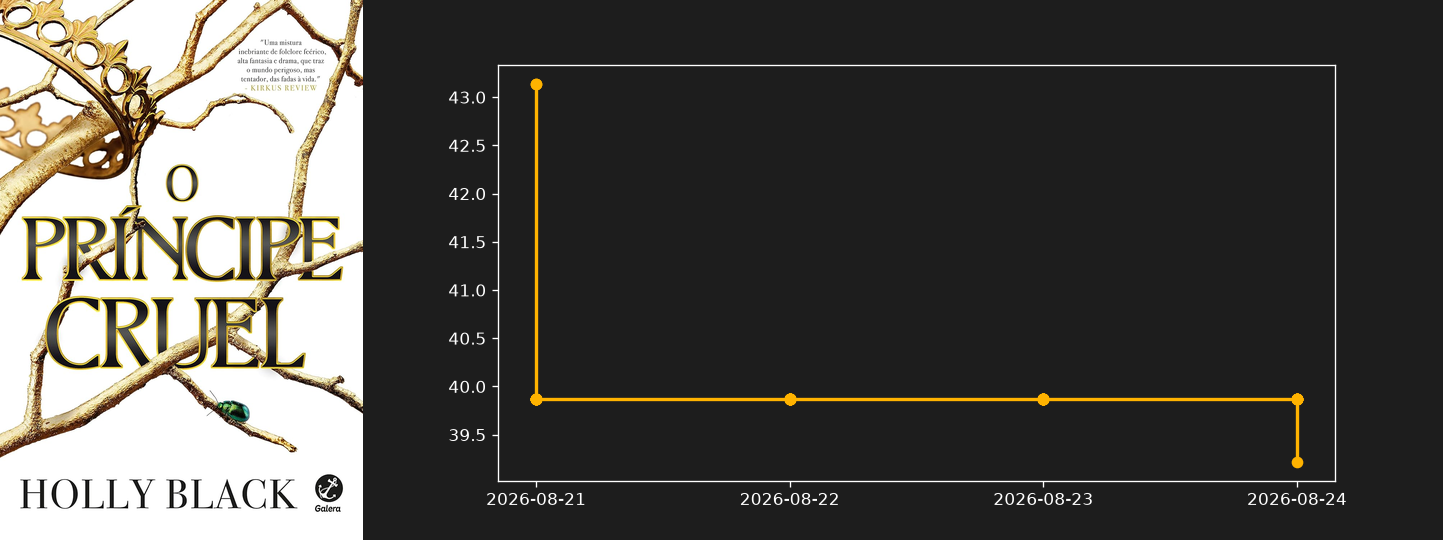
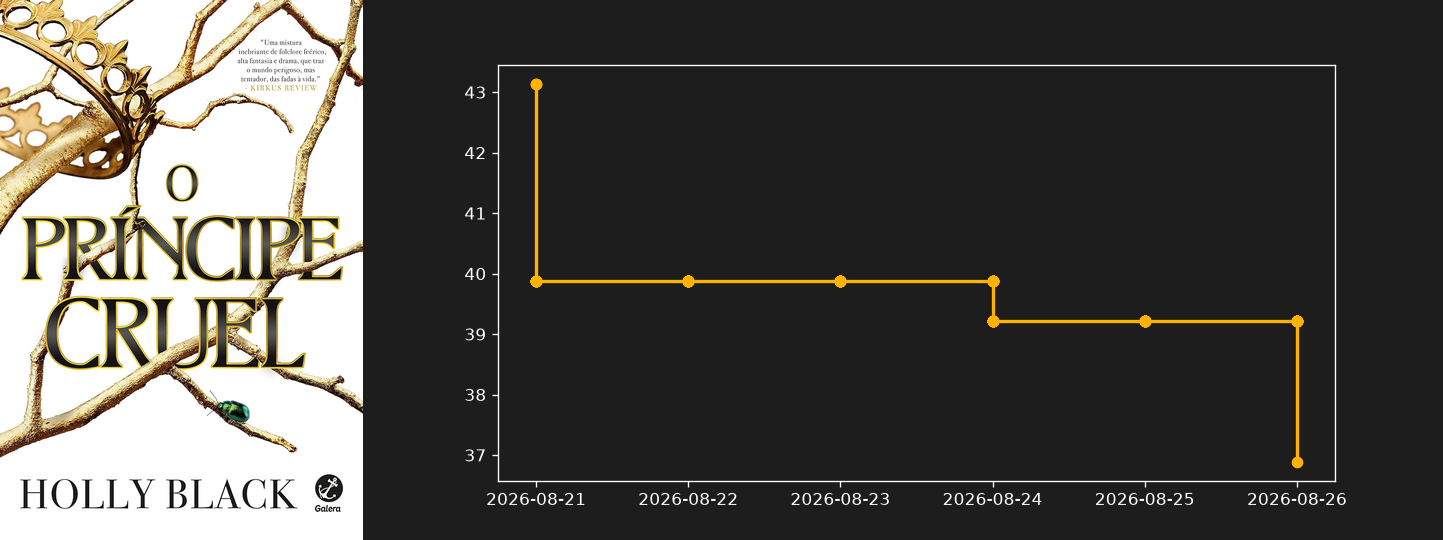
🤖 Bot Mac: Atualizando ofertas [skip ci]

diff --git a/index.html b/index.html
@@ -48,14 +48,14 @@
             <div class="flex flex-col mt-auto mb-5">
                 <div class="flex items-baseline gap-2">
                     <span class="text-2xl font-bold text-white tracking-tight">R$ 184,07</span>
-                    <span class="text-sm text-gray-500 line-through">R$ 253,01</span>
+                    <span class="text-sm text-gray-500 line-through">R$ 252,82</span>
                 </div>
             </div>
             <a href="https://link.amazon/B0bxqDHXJ" target="_blank" rel="nofollow noopener" class="w-full flex items-center justify-center gap-2 py-2.5 rounded-xl bg-white/5 hover:bg-bardo-gold hover:text-bardo-dark text-sm font-bold text-gray-200 transition-all">Comprar na Amazon</a>
         </div>
     </article>
     <article class="relative flex flex-col bg-surface rounded-2xl border border-white/5 overflow-hidden hover:border-bardo-gold/40 transition-all duration-300 group shadow-lg">
-        <div class="absolute top-3 left-3 z-10"><span class="px-2.5 py-1 text-[11px] font-bold uppercase tracking-wider text-emerald-400 bg-emerald-500/10 border border-emerald-500/20 rounded-full backdrop-blur-md shadow-lg">Abaixo da Média</span></div>
+        
         <!-- Vitrine com Efeito Hover Swap -->
         <div class="relative h-64 w-full bg-gradient-to-b from-white/[0.03] to-transparent border-b border-white/5 overflow-hidden">
             <!-- Imagem 1: Capa (Soma ao Hover) -->
@@ -128,7 +128,7 @@
             <div class="flex flex-col mt-auto mb-5">
                 <div class="flex items-baseline gap-2">
                     <span class="text-2xl font-bold text-white tracking-tight">R$ 49,78</span>
-                    <span class="text-sm text-gray-500 line-through">R$ 45,43</span>
+                    <span class="text-sm text-gray-500 line-through">R$ 45,44</span>
                 </div>
             </div>
             <a href="https://link.amazon/B05Sr7Nr7" target="_blank" rel="nofollow noopener" class="w-full flex items-center justify-center gap-2 py-2.5 rounded-xl bg-white/5 hover:bg-bardo-gold hover:text-bardo-dark text-sm font-bold text-gray-200 transition-all">Comprar na Amazon</a>
@@ -148,7 +148,7 @@
             <div class="flex flex-col mt-auto mb-5">
                 <div class="flex items-baseline gap-2">
                     <span class="text-2xl font-bold text-white tracking-tight">R$ 139,93</span>
-                    <span class="text-sm text-gray-500 line-through">R$ 131,55</span>
+                    <span class="text-sm text-gray-500 line-through">R$ 131,58</span>
                 </div>
             </div>
             <a href="https://link.amazon/B04OFbHZF" target="_blank" rel="nofollow noopener" class="w-full flex items-center justify-center gap-2 py-2.5 rounded-xl bg-white/5 hover:bg-bardo-gold hover:text-bardo-dark text-sm font-bold text-gray-200 transition-all">Comprar na Amazon</a>
@@ -168,7 +168,7 @@
             <div class="flex flex-col mt-auto mb-5">
                 <div class="flex items-baseline gap-2">
                     <span class="text-2xl font-bold text-white tracking-tight">R$ 132,93</span>
-                    <span class="text-sm text-gray-500 line-through">R$ 134,04</span>
+                    <span class="text-sm text-gray-500 line-through">R$ 134,03</span>
                 </div>
             </div>
             <a href="https://link.amazon/B0bOFsgQ9" target="_blank" rel="nofollow noopener" class="w-full flex items-center justify-center gap-2 py-2.5 rounded-xl bg-white/5 hover:bg-bardo-gold hover:text-bardo-dark text-sm font-bold text-gray-200 transition-all">Comprar na Amazon</a>
@@ -188,7 +188,7 @@
             <div class="flex flex-col mt-auto mb-5">
                 <div class="flex items-baseline gap-2">
                     <span class="text-2xl font-bold text-white tracking-tight">R$ 227,26</span>
-                    <span class="text-sm text-gray-500 line-through">R$ 219,19</span>
+                    <span class="text-sm text-gray-500 line-through">R$ 219,22</span>
                 </div>
             </div>
             <a href="https://link.amazon/B0cOS4omj" target="_blank" rel="nofollow noopener" class="w-full flex items-center justify-center gap-2 py-2.5 rounded-xl bg-white/5 hover:bg-bardo-gold hover:text-bardo-dark text-sm font-bold text-gray-200 transition-all">Comprar na Amazon</a>
@@ -228,7 +228,7 @@
             <div class="flex flex-col mt-auto mb-5">
                 <div class="flex items-baseline gap-2">
                     <span class="text-2xl font-bold text-white tracking-tight">R$ 78,99</span>
-                    <span class="text-sm text-gray-500 line-through">R$ 76,59</span>
+                    <span class="text-sm text-gray-500 line-through">R$ 76,60</span>
                 </div>
             </div>
             <a href="https://link.amazon/B01CIGwaZ" target="_blank" rel="nofollow noopener" class="w-full flex items-center justify-center gap-2 py-2.5 rounded-xl bg-white/5 hover:bg-bardo-gold hover:text-bardo-dark text-sm font-bold text-gray-200 transition-all">Comprar na Amazon</a>
@@ -248,7 +248,7 @@
             <div class="flex flex-col mt-auto mb-5">
                 <div class="flex items-baseline gap-2">
                     <span class="text-2xl font-bold text-white tracking-tight">R$ 368,65</span>
-                    <span class="text-sm text-gray-500 line-through">R$ 372,73</span>
+                    <span class="text-sm text-gray-500 line-through">R$ 372,71</span>
                 </div>
             </div>
             <a href="https://link.amazon/B0czAwuOp" target="_blank" rel="nofollow noopener" class="w-full flex items-center justify-center gap-2 py-2.5 rounded-xl bg-white/5 hover:bg-bardo-gold hover:text-bardo-dark text-sm font-bold text-gray-200 transition-all">Comprar na Amazon</a>
@@ -288,7 +288,7 @@
             <div class="flex flex-col mt-auto mb-5">
                 <div class="flex items-baseline gap-2">
                     <span class="text-2xl font-bold text-white tracking-tight">R$ 69,73</span>
-                    <span class="text-sm text-gray-500 line-through">R$ 66,74</span>
+                    <span class="text-sm text-gray-500 line-through">R$ 66,75</span>
                 </div>
             </div>
             <a href="https://link.amazon/B0bJ5jTSU" target="_blank" rel="nofollow noopener" class="w-full flex items-center justify-center gap-2 py-2.5 rounded-xl bg-white/5 hover:bg-bardo-gold hover:text-bardo-dark text-sm font-bold text-gray-200 transition-all">Comprar na Amazon</a>
@@ -308,7 +308,7 @@
             <div class="flex flex-col mt-auto mb-5">
                 <div class="flex items-baseline gap-2">
                     <span class="text-2xl font-bold text-white tracking-tight">R$ 46,14</span>
-                    <span class="text-sm text-gray-500 line-through">R$ 52,31</span>
+                    <span class="text-sm text-gray-500 line-through">R$ 52,29</span>
                 </div>
             </div>
             <a href="https://link.amazon/B075ASsRo" target="_blank" rel="nofollow noopener" class="w-full flex items-center justify-center gap-2 py-2.5 rounded-xl bg-white/5 hover:bg-bardo-gold hover:text-bardo-dark text-sm font-bold text-gray-200 transition-all">Comprar na Amazon</a>
@@ -368,7 +368,7 @@
             <div class="flex flex-col mt-auto mb-5">
                 <div class="flex items-baseline gap-2">
                     <span class="text-2xl font-bold text-white tracking-tight">R$ 92,70</span>
-                    <span class="text-sm text-gray-500 line-through">R$ 101,76</span>
+                    <span class="text-sm text-gray-500 line-through">R$ 101,74</span>
                 </div>
             </div>
             <a href="https://link.amazon/B0g8PJdyP" target="_blank" rel="nofollow noopener" class="w-full flex items-center justify-center gap-2 py-2.5 rounded-xl bg-white/5 hover:bg-bardo-gold hover:text-bardo-dark text-sm font-bold text-gray-200 transition-all">Comprar na Amazon</a>
@@ -408,7 +408,7 @@
             <div class="flex flex-col mt-auto mb-5">
                 <div class="flex items-baseline gap-2">
                     <span class="text-2xl font-bold text-white tracking-tight">R$ 137,70</span>
-                    <span class="text-sm text-gray-500 line-through">R$ 144,88</span>
+                    <span class="text-sm text-gray-500 line-through">R$ 144,86</span>
                 </div>
             </div>
             <a href="https://link.amazon/B0cBFS3o1" target="_blank" rel="nofollow noopener" class="w-full flex items-center justify-center gap-2 py-2.5 rounded-xl bg-white/5 hover:bg-bardo-gold hover:text-bardo-dark text-sm font-bold text-gray-200 transition-all">Comprar na Amazon</a>
@@ -428,7 +428,7 @@
             <div class="flex flex-col mt-auto mb-5">
                 <div class="flex items-baseline gap-2">
                     <span class="text-2xl font-bold text-white tracking-tight">R$ 148,29</span>
-                    <span class="text-sm text-gray-500 line-through">R$ 147,00</span>
+                    <span class="text-sm text-gray-500 line-through">R$ 147,01</span>
                 </div>
             </div>
             <a href="https://link.amazon/B0f81O992" target="_blank" rel="nofollow noopener" class="w-full flex items-center justify-center gap-2 py-2.5 rounded-xl bg-white/5 hover:bg-bardo-gold hover:text-bardo-dark text-sm font-bold text-gray-200 transition-all">Comprar na Amazon</a>
@@ -548,7 +548,7 @@
             <div class="flex flex-col mt-auto mb-5">
                 <div class="flex items-baseline gap-2">
                     <span class="text-2xl font-bold text-white tracking-tight">R$ 87,59</span>
-                    <span class="text-sm text-gray-500 line-through">R$ 84,48</span>
+                    <span class="text-sm text-gray-500 line-through">R$ 84,49</span>
                 </div>
             </div>
             <a href="https://link.amazon/B0fHxeIhM" target="_blank" rel="nofollow noopener" class="w-full flex items-center justify-center gap-2 py-2.5 rounded-xl bg-white/5 hover:bg-bardo-gold hover:text-bardo-dark text-sm font-bold text-gray-200 transition-all">Comprar na Amazon</a>
@@ -568,7 +568,7 @@
             <div class="flex flex-col mt-auto mb-5">
                 <div class="flex items-baseline gap-2">
                     <span class="text-2xl font-bold text-white tracking-tight">R$ 76,38</span>
-                    <span class="text-sm text-gray-500 line-through">R$ 73,62</span>
+                    <span class="text-sm text-gray-500 line-through">R$ 73,63</span>
                 </div>
             </div>
             <a href="https://link.amazon/B09kGQop8" target="_blank" rel="nofollow noopener" class="w-full flex items-center justify-center gap-2 py-2.5 rounded-xl bg-white/5 hover:bg-bardo-gold hover:text-bardo-dark text-sm font-bold text-gray-200 transition-all">Comprar na Amazon</a>
@@ -588,7 +588,7 @@
             <div class="flex flex-col mt-auto mb-5">
                 <div class="flex items-baseline gap-2">
                     <span class="text-2xl font-bold text-white tracking-tight">R$ 285,85</span>
-                    <span class="text-sm text-gray-500 line-through">R$ 281,10</span>
+                    <span class="text-sm text-gray-500 line-through">R$ 281,15</span>
                 </div>
             </div>
             <a href="https://link.amazon/B046QvncM" target="_blank" rel="nofollow noopener" class="w-full flex items-center justify-center gap-2 py-2.5 rounded-xl bg-white/5 hover:bg-bardo-gold hover:text-bardo-dark text-sm font-bold text-gray-200 transition-all">Comprar na Amazon</a>
@@ -608,7 +608,7 @@
             <div class="flex flex-col mt-auto mb-5">
                 <div class="flex items-baseline gap-2">
                     <span class="text-2xl font-bold text-white tracking-tight">R$ 192,75</span>
-                    <span class="text-sm text-gray-500 line-through">R$ 191,46</span>
+                    <span class="text-sm text-gray-500 line-through">R$ 191,47</span>
                 </div>
             </div>
             <a href="https://link.amazon/B037mPoB1" target="_blank" rel="nofollow noopener" class="w-full flex items-center justify-center gap-2 py-2.5 rounded-xl bg-white/5 hover:bg-bardo-gold hover:text-bardo-dark text-sm font-bold text-gray-200 transition-all">Comprar na Amazon</a>
@@ -648,7 +648,7 @@
             <div class="flex flex-col mt-auto mb-5">
                 <div class="flex items-baseline gap-2">
                     <span class="text-2xl font-bold text-white tracking-tight">R$ 48,99</span>
-                    <span class="text-sm text-gray-500 line-through">R$ 48,66</span>
+                    <span class="text-sm text-gray-500 line-through">R$ 48,67</span>
                 </div>
             </div>
             <a href="https://link.amazon/B0cIs9iDO" target="_blank" rel="nofollow noopener" class="w-full flex items-center justify-center gap-2 py-2.5 rounded-xl bg-white/5 hover:bg-bardo-gold hover:text-bardo-dark text-sm font-bold text-gray-200 transition-all">Comprar na Amazon</a>
@@ -728,7 +728,7 @@
             <div class="flex flex-col mt-auto mb-5">
                 <div class="flex items-baseline gap-2">
                     <span class="text-2xl font-bold text-white tracking-tight">R$ 63,90</span>
-                    <span class="text-sm text-gray-500 line-through">R$ 67,28</span>
+                    <span class="text-sm text-gray-500 line-through">R$ 67,24</span>
                 </div>
             </div>
             <a href="https://link.amazon/B0gpt2mie" target="_blank" rel="nofollow noopener" class="w-full flex items-center justify-center gap-2 py-2.5 rounded-xl bg-white/5 hover:bg-bardo-gold hover:text-bardo-dark text-sm font-bold text-gray-200 transition-all">Comprar na Amazon</a>
@@ -748,7 +748,7 @@
             <div class="flex flex-col mt-auto mb-5">
                 <div class="flex items-baseline gap-2">
                     <span class="text-2xl font-bold text-white tracking-tight">R$ 66,74</span>
-                    <span class="text-sm text-gray-500 line-through">R$ 68,50</span>
+                    <span class="text-sm text-gray-500 line-through">R$ 68,49</span>
                 </div>
             </div>
             <a href="https://link.amazon/B053gl2cU" target="_blank" rel="nofollow noopener" class="w-full flex items-center justify-center gap-2 py-2.5 rounded-xl bg-white/5 hover:bg-bardo-gold hover:text-bardo-dark text-sm font-bold text-gray-200 transition-all">Comprar na Amazon</a>
@@ -768,7 +768,7 @@
             <div class="flex flex-col mt-auto mb-5">
                 <div class="flex items-baseline gap-2">
                     <span class="text-2xl font-bold text-white tracking-tight">R$ 57,59</span>
-                    <span class="text-sm text-gray-500 line-through">R$ 56,46</span>
+                    <span class="text-sm text-gray-500 line-through">R$ 56,47</span>
                 </div>
             </div>
             <a href="https://link.amazon/B09R1newk" target="_blank" rel="nofollow noopener" class="w-full flex items-center justify-center gap-2 py-2.5 rounded-xl bg-white/5 hover:bg-bardo-gold hover:text-bardo-dark text-sm font-bold text-gray-200 transition-all">Comprar na Amazon</a>
@@ -787,8 +787,8 @@
             <h3 class="text-base font-semibold text-gray-100 leading-snug line-clamp-2 mb-4 group-hover:text-bardo-gold transition-colors">O Príncipe Cruel</h3>
             <div class="flex flex-col mt-auto mb-5">
                 <div class="flex items-baseline gap-2">
-                    <span class="text-2xl font-bold text-white tracking-tight">R$ 39,22</span>
-                    <span class="text-sm text-gray-500 line-through">R$ 39,66</span>
+                    <span class="text-2xl font-bold text-white tracking-tight">R$ 36,89</span>
+                    <span class="text-sm text-gray-500 line-through">R$ 39,63</span>
                 </div>
             </div>
             <a href="https://link.amazon/B0aKkKOM2" target="_blank" rel="nofollow noopener" class="w-full flex items-center justify-center gap-2 py-2.5 rounded-xl bg-white/5 hover:bg-bardo-gold hover:text-bardo-dark text-sm font-bold text-gray-200 transition-all">Comprar na Amazon</a>
@@ -808,7 +808,7 @@
             <div class="flex flex-col mt-auto mb-5">
                 <div class="flex items-baseline gap-2">
                     <span class="text-2xl font-bold text-white tracking-tight">R$ 166,13</span>
-                    <span class="text-sm text-gray-500 line-through">R$ 165,05</span>
+                    <span class="text-sm text-gray-500 line-through">R$ 165,06</span>
                 </div>
             </div>
             <a href="https://link.amazon/B02R68ory" target="_blank" rel="nofollow noopener" class="w-full flex items-center justify-center gap-2 py-2.5 rounded-xl bg-white/5 hover:bg-bardo-gold hover:text-bardo-dark text-sm font-bold text-gray-200 transition-all">Comprar na Amazon</a>
@@ -928,7 +928,7 @@
             <div class="flex flex-col mt-auto mb-5">
                 <div class="flex items-baseline gap-2">
                     <span class="text-2xl font-bold text-white tracking-tight">R$ 62,60</span>
-                    <span class="text-sm text-gray-500 line-through">R$ 69,48</span>
+                    <span class="text-sm text-gray-500 line-through">R$ 69,41</span>
                 </div>
             </div>
             <a href="https://link.amazon/B0jllWIXN" target="_blank" rel="nofollow noopener" class="w-full flex items-center justify-center gap-2 py-2.5 rounded-xl bg-white/5 hover:bg-bardo-gold hover:text-bardo-dark text-sm font-bold text-gray-200 transition-all">Comprar na Amazon</a>
@@ -988,7 +988,7 @@
             <div class="flex flex-col mt-auto mb-5">
                 <div class="flex items-baseline gap-2">
                     <span class="text-2xl font-bold text-white tracking-tight">R$ 314,60</span>
-                    <span class="text-sm text-gray-500 line-through">R$ 320,91</span>
+                    <span class="text-sm text-gray-500 line-through">R$ 320,84</span>
                 </div>
             </div>
             <a href="https://link.amazon/B02mXXqIa" target="_blank" rel="nofollow noopener" class="w-full flex items-center justify-center gap-2 py-2.5 rounded-xl bg-white/5 hover:bg-bardo-gold hover:text-bardo-dark text-sm font-bold text-gray-200 transition-all">Comprar na Amazon</a>
@@ -1008,7 +1008,7 @@
             <div class="flex flex-col mt-auto mb-5">
                 <div class="flex items-baseline gap-2">
                     <span class="text-2xl font-bold text-white tracking-tight">R$ 232,46</span>
-                    <span class="text-sm text-gray-500 line-through">R$ 228,36</span>
+                    <span class="text-sm text-gray-500 line-through">R$ 228,40</span>
                 </div>
             </div>
             <a href="https://link.amazon/B01sIcUyP" target="_blank" rel="nofollow noopener" class="w-full flex items-center justify-center gap-2 py-2.5 rounded-xl bg-white/5 hover:bg-bardo-gold hover:text-bardo-dark text-sm font-bold text-gray-200 transition-all">Comprar na Amazon</a>
